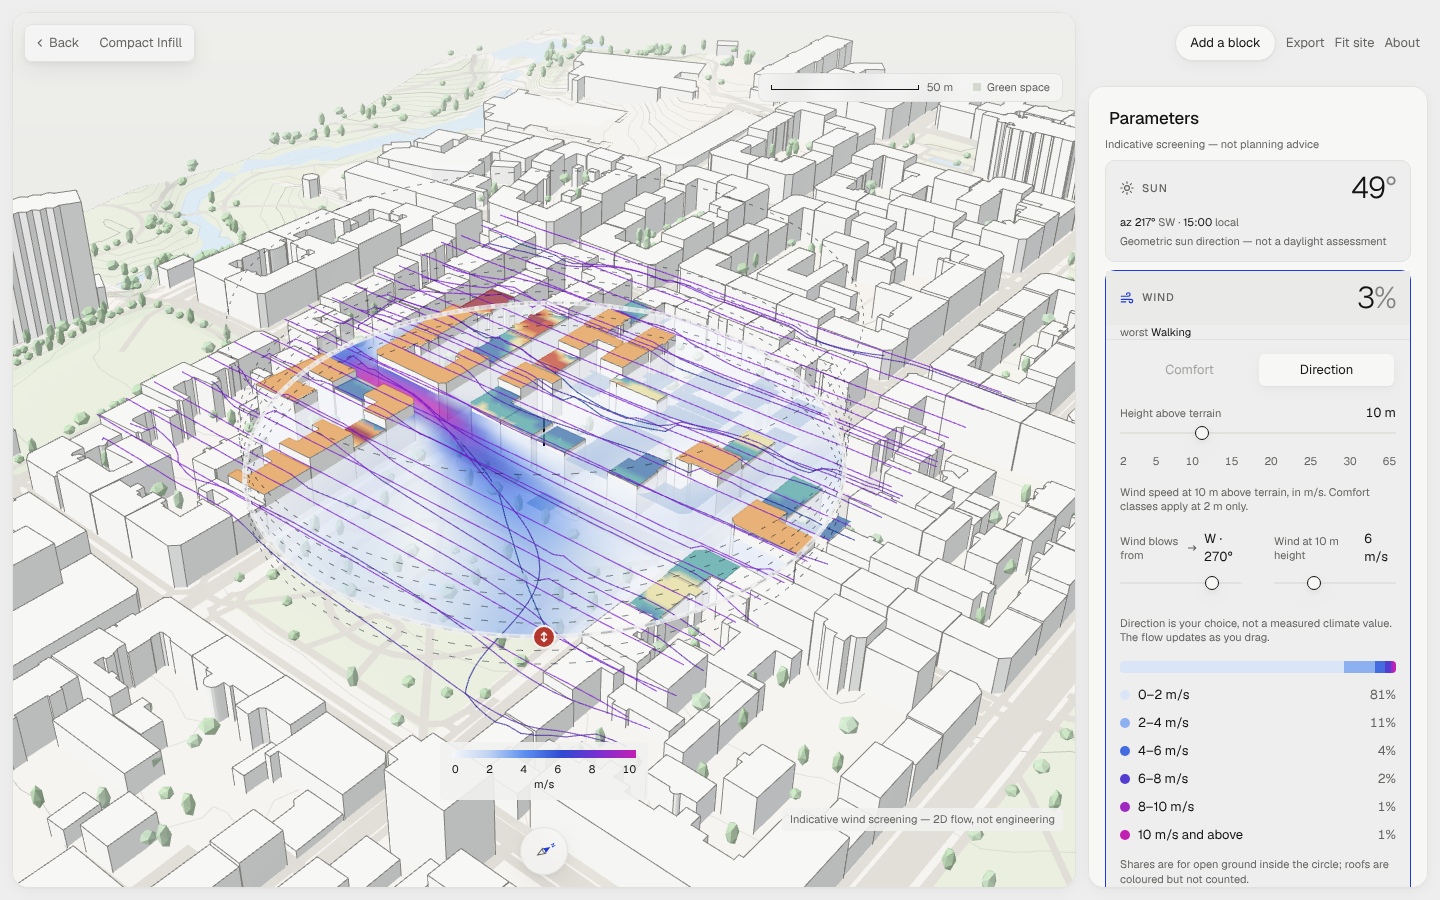
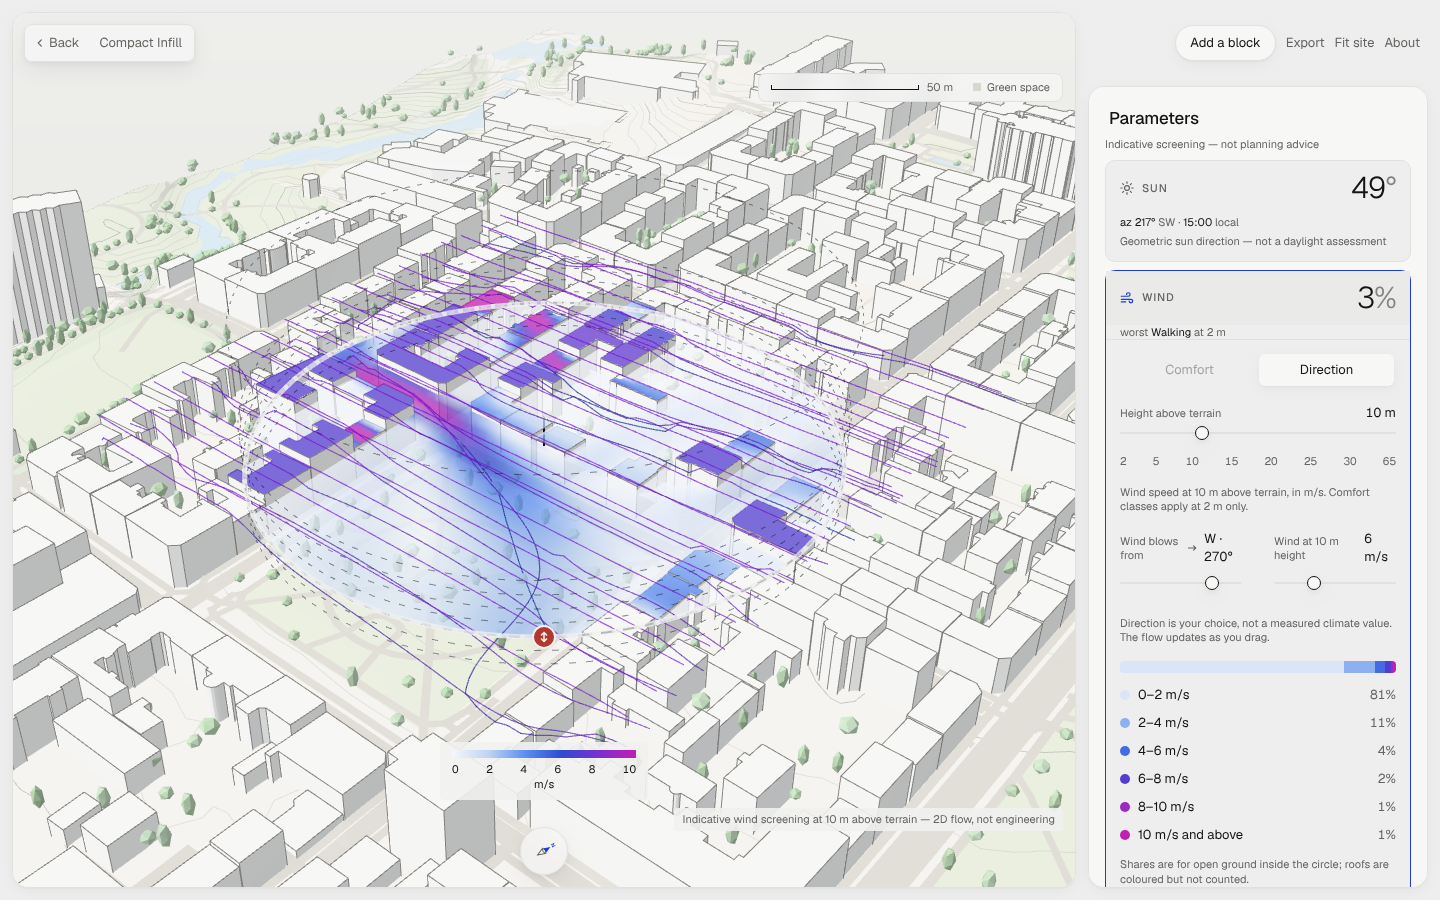
feat(wind): claims and labels at height (ADR-0028 phase 4)
The map caption names the height once the map is lifted; the claim
itself is unchanged. Roofs follow the scale the map shows, so a lifted
m/s map no longer has comfort-coloured roofs beside it. The steep-site
note says lifted heights are drawn along the ground but solved flat,
and the wind card's comfort figure says 'at 2 m' while lifted.

Claude-Session: https://claude.ai/code/session_01GYZFU7DhZDxarShToDiTiP

Changed region(s): [[0.1562, 0.3111, 0.5938, 0.6844], [0.4688, 0.9022, 0.625, 0.9333]]

diff --git a/src/scene/ViewportCanvas.tsx b/src/scene/ViewportCanvas.tsx
@@ -23,7 +23,6 @@ import { ClimateLayer } from './ClimateLayer'
 import { FacadeSun, type FacadeOverlay } from './FacadeSun'
 import { RoofSolar } from './RoofSolar'
 import { WindStreamlines } from './WindStreamlines'
-import { FLOW_DISCLAIMER } from '../features/analysis/lbm'
 import { WindParticles } from './WindParticles'
 import { AnalysisCircle } from './AnalysisCircle'
 import { GhostRings, WindLiftHandle } from './WindLiftHandle'
@@ -31,7 +30,7 @@ import { fadedBuildings, ghostHeights } from '../features/analysis/windLift'
 import { WorstArrows } from './WorstArrows'
 import type { FlowResult } from '../features/analysis/flowRunner'
 import type { RoofSolarValue } from '../features/analysis/roofSolar'
-import { DEFAULT_WIND, displayAt, flowAtHeight, windDrawLift, type WindSettings, type WindBaseline, type ClimateOverlay } from '../features/analysis/climateView'
+import { DEFAULT_WIND, displayAt, flowAtHeight, windCaption, windDrawLift, type WindSettings, type WindBaseline, type ClimateOverlay } from '../features/analysis/climateView'
 import { MassLayer, type MassAnnotation } from './MassLayer'
 import { Trees } from './Trees'
 import { visibleTierFootprints } from './massFootprints'
@@ -589,7 +588,7 @@ export function ViewportCanvas({
         // The wind claim stays visible with the wind layer even when the inspector group is closed (PRD R8).
         <div className="pointer-events-none absolute inset-x-3 bottom-14 z-20 flex flex-col items-end gap-2">
           {windShown.display === 'ratio' && <WindRampBar />}
-          <p className="rounded-chip bg-surface/90 px-2 py-1 text-caption text-ink-secondary">{FLOW_DISCLAIMER}</p>
+          <p className="rounded-chip bg-surface/90 px-2 py-1 text-caption text-ink-secondary">{windCaption(windSettings.heightM)}</p>
         </div>
       )}
       {webgl === 'none' ? (
@@ -648,7 +647,7 @@ export function ViewportCanvas({
             {roofSolar && <RoofSolar buildings={windBuildings} values={roofSolar} heightAt={heightAt} />}
             {facade && <FacadeSun overlay={facade} heightAt={heightAt} />}
             {windWorst && <WorstArrows cells={windWorst.cells} worstFrom={windWorst.worstFrom} heightAt={heightAt} />}
-            {!windWorst && windFlow?.slices && windCircle && <RoofWind buildings={windBuildings} flow={windFlow} circle={windCircle} heightAt={heightAt} wind={windSettings} baseline={windBaseline} />}
+            {!windWorst && windFlow?.slices && windCircle && <RoofWind buildings={windBuildings} flow={windFlow} circle={windCircle} heightAt={heightAt} wind={windShown} baseline={windBaseline} />}
             {!windWorst && windFlow && windCircle && ((windStreamlines || reducedMotion)
               ? windFlow.settled && <WindStreamlines flow={windFlow} circle={windCircle} heightAt={heightAt} heightM={windSettings.streamlines3d ? null : windSettings.heightM} opacity={windSettings.streamlineOpacity} buildings={windBuildings} />
               : windField && <WindParticles flow={windField} circle={windCircle} heightAt={windHeightAt} wind={windShown} />)}

diff --git a/src/components/studio/ClimatePanel.tsx b/src/components/studio/ClimatePanel.tsx
@@ -4,7 +4,7 @@ import { useCallback, useEffect, useRef, useState, type ReactNode } from 'react'
 import { demoFrame } from '../../features/analysis/windDemo'
 import { SLICE_HEIGHTS_M } from '../../features/analysis/windProfile'
 import { heightText, nearestHeight } from '../../features/analysis/windLift'
-import { CIRCLE_RADIUS, DELTA_NOTE, displayAt, heightNote, localSpeedMs, PEDESTRIAN_HEIGHT_M, ROSE_THRESHOLD_MS, WORST_NOTE, type WindBaseline, type ClimateMode, type ClimateView, type WindDisplay, type WindSettings } from '../../features/analysis/climateView'
+import { CIRCLE_RADIUS, DELTA_NOTE, displayAt, heightNote, LIFT_SLOPE_NOTE, localSpeedMs, PEDESTRIAN_HEIGHT_M, ROSE_THRESHOLD_MS, WORST_NOTE, type WindBaseline, type ClimateMode, type ClimateView, type WindDisplay, type WindSettings } from '../../features/analysis/climateView'
 import { cn } from '../../lib/cn'
 import { eyebrowClass, labelClass, pillButtonClass, rangeClass, segmentClass, segmentGroupClass } from '../ui/controls'
 
@@ -227,7 +227,7 @@ export function ClimatePanel({ terrainReliefM = 0, showQuick = true, showModes =
       <p className="mt-2 text-caption text-ink-secondary">{view.disclaimer}</p>
       {mode === 'wind' && terrainReliefM >= STEEP_RELIEF_M && (
         <p className="mt-2 text-caption text-ink-secondary">
-          Steep site: the ground rises about {Math.round(terrainReliefM)} m across this circle. The wind model follows the ground and does not model the slope itself, so hills neither shelter nor speed up the flow here. Treat these results as rougher than on a flat site.
+          Steep site: the ground rises about {Math.round(terrainReliefM)} m across this circle. The wind model follows the ground and does not model the slope itself, so hills neither shelter nor speed up the flow here. Treat these results as rougher than on a flat site.{wind.heightM > PEDESTRIAN_HEIGHT_M ? ` ${LIFT_SLOPE_NOTE}` : ''}
         </p>
       )}
     </div>

diff --git a/src/features/analysis/climateView.test.ts b/src/features/analysis/climateView.test.ts
@@ -1,5 +1,6 @@
 import { describe, expect, it } from 'vitest'
-import { ACTIVITY_BANDS, buildClimateView, captureBaseline, DEFAULT_WIND, DELTA_BANDS, displayAt, flowAtHeight, windDrawLift, WORST_NOTE, DIRECTION_BANDS, localSpeedMs, particleColour, WIND_RAMP, windSpeedColour, windColour } from './climateView'
+import { FLOW_DISCLAIMER } from './lbm'
+import { ACTIVITY_BANDS, buildClimateView, captureBaseline, windCaption, DEFAULT_WIND, DELTA_BANDS, displayAt, flowAtHeight, windDrawLift, WORST_NOTE, DIRECTION_BANDS, localSpeedMs, particleColour, WIND_RAMP, windSpeedColour, windColour } from './climateView'
 import { SUN_HOURS_DISCLAIMER } from './sunHours'
 
 describe('Direction speed ramp', () => {
@@ -128,6 +129,13 @@ describe('the wind map at a chosen height', () => {
     // A baseline without that slice cannot be compared at that height.
     const flat = captureBaseline({ ...flow(1.0), slices: [flow().slices[0]!] }, { centre: [0, 0], radius: 100 }, 270, true)
     expect(view({ display: 'delta', heightM: 20 }, flow(1.2), flat).assessed).toBe(0)
+  })
+
+  it('names the height in the map caption once the map is lifted (phase 4)', () => {
+    expect(windCaption(2)).toBe(FLOW_DISCLAIMER)
+    expect(windCaption(20)).toBe('Indicative wind screening at 20 m above terrain — 2D flow, not engineering')
+    // The claim itself never changes: still indicative, still 2D, still not engineering.
+    expect(windCaption(65)).toContain('2D flow, not engineering')
   })
 
   it('draws the map on the ground at 2 m and at terrain + height above', () => {

diff --git a/src/components/studio/analysisValues.ts b/src/components/studio/analysisValues.ts
@@ -101,14 +101,15 @@ export function noiseStat(cells: readonly NoiseCell[], roads: readonly NoiseRoad
  * Share of open ground at or above the stand threshold (4 m/s), from a Comfort (activity) view,
  * and the windiest class present. `view` must be built with display 'activity'.
  */
-export function windStat(view: ClimateView | null, from: number, refSpeed: number, solving: boolean): AnalysisStat {
+export function windStat(view: ClimateView | null, from: number, refSpeed: number, solving: boolean, lifted = false): AnalysisStat {
   if (!view) return empty(solving ? 'Solving the flow…' : 'Select to solve the flow')
   if (view.assessed === 0) return empty('Solving the flow…')
   const above = view.legend.reduce((sum, entry, index) => sum + ((ACTIVITY_BANDS[index]?.below ?? 0) > ROSE_THRESHOLD_MS ? entry.share : 0), 0)
   const worst = [...view.legend].reverse().find((entry) => entry.count > 0)
   // Direction and speed are the card's own controls; the card names the windiest class.
   const secondary: Part[] = worst
-    ? [['', 'worst '], [worst.label.split(' (')[0] ?? worst.label, '']]
+    // A comfort class is a 2 m statement; while the map shows another height the card says so.
+    ? [['', 'worst '], [worst.label.split(' (')[0] ?? worst.label, lifted ? ' at 2 m' : '']]
     : [['', `${compassPoint(from)} ${from}° at ${refSpeed} m/s`]]
   return { value: formatNumber(above * 100), unit: '%', secondary }
 }

diff --git a/src/components/studio/ClimatePanel.test.tsx b/src/components/studio/ClimatePanel.test.tsx
@@ -278,6 +278,16 @@ it('above 2 m the map shows m/s: Comfort is disabled and says why (ADR-0028)', (
   expect(screen.queryByText(/above terrain, in m\/s/)).toBeNull()
 })
 
+it('on a steep site the lifted map says it follows the ground but is solved flat (phase 4)', () => {
+  // The note sits with the legend, so the panel needs a (here empty) wind view.
+  const view = { overlay: { cellM: 4, cells: [] }, legend: [], disclaimer: 'Indicative wind screening — 2D flow, not engineering', assessed: 0 }
+  const props = { mode: 'wind' as const, onModeChange: vi.fn(), onWindChange: vi.fn(), view, terrainReliefM: 24 }
+  const { rerender } = render(<ClimatePanel {...props} wind={{ ...DEFAULT_WIND, heightM: 2 }} />)
+  expect(screen.getByText(/Steep site/)).not.toHaveTextContent('solved as a flat slice')
+  rerender(<ClimatePanel {...props} wind={{ ...DEFAULT_WIND, heightM: 20 }} />)
+  expect(screen.getByText(/Steep site/)).toHaveTextContent('each height is still solved as a flat slice')
+})
+
 it('the worst case is a 2 m screen: choosing it returns to 2 m and locks the height', () => {
   const onWindChange = vi.fn()
   const sweep = { sectors: [{ from: 0, meanRatio: 0.6, shareAbove: 0.1 }], worstFrom: 0, total: 8 }

diff --git a/src/features/analysis/climateView.ts b/src/features/analysis/climateView.ts
@@ -67,6 +67,17 @@ export function windDrawLift(heightM: number): number {
   return heightM > PEDESTRIAN_HEIGHT_M ? heightM : 0
 }
 
+/**
+ * The wind claim on the map (ADR-0028 phase 4): the same claim, naming the height when the map is
+ * lifted, so a 20 m map is never read as the pedestrian one.
+ */
+export function windCaption(heightM: number): string {
+  return heightM > PEDESTRIAN_HEIGHT_M ? `Indicative wind screening at ${heightM} m above terrain — 2D flow, not engineering` : FLOW_DISCLAIMER
+}
+
+/** Lifted slices are drawn along the ground, but each one is solved as a flat plane. */
+export const LIFT_SLOPE_NOTE = 'Above 2 m the map is drawn following the ground; each height is still solved as a flat slice, so slopes and ridges do not speed up the wind here.'
+
 /** The caption for a map above pedestrian height. */
 export const heightNote = (heightM: number) => `Wind speed at ${heightM} m above terrain, in m/s. Comfort classes apply at 2 m only.`
 export type WindBaseline = { readonly flow: FlowResult; readonly circle: { readonly centre: Vec2; readonly radius: number }; readonly from: number; readonly downwash: boolean }

diff --git a/e2e/wind.spec.ts b/e2e/wind.spec.ts
@@ -111,6 +111,8 @@ test('ADR-0028: the wind map lifts to 20 m above terrain, shows m/s there, and r
   await expect(page.getByRole('list', { name: 'Wind direction legend' })).toBeVisible()
   await expect(page.getByText('Wind speed at 20 m above terrain, in m/s. Comfort classes apply at 2 m only.')).toBeVisible()
   await expect(displays.getByRole('button', { name: 'Comfort', exact: true })).toBeDisabled()
+  // The claim on the map names the height, so a lifted map is never read as the pedestrian one.
+  await expect(page.getByRole('region', { name: /3D site viewport/ }).getByText('Indicative wind screening at 20 m above terrain — 2D flow, not engineering')).toBeVisible()
 
   // The lift handle in the scene holds the same height, and steps it from the keyboard.
   const handle = page.getByRole('slider', { name: 'Lift the wind map' })

diff --git a/src/components/studio/analysisValues.test.ts b/src/components/studio/analysisValues.test.ts
@@ -43,6 +43,8 @@ describe('analysis card values come from the analysis, not constants', () => {
     // Stroll (4–6), walk (6–8) and above are at or above the 4 m/s stand threshold: 0.2 + 0.1.
     expect(stat).toMatchObject({ value: '30', unit: '%' })
     expect(text(stat.secondary)).toBe('worst Band 3')
+    // The comfort figure is always at 2 m; while the map shows another height the card says so.
+    expect(text(windStat({ ...pending, legend, assessed: 10 }, 270, 6, true, true).secondary)).toBe('worst Band 3 at 2 m')
   })
 
   it('Sun analysis cards use the medians of the same samples the layers draw', () => {

diff --git a/src/components/studio/StudioShell.tsx b/src/components/studio/StudioShell.tsx
@@ -441,7 +441,7 @@ export function StudioShell({
       id: 'wind',
       label: 'Wind',
       icon: 'wind',
-      stat: windStat(windComfortView, wind.from, wind.refSpeed, climateMode === 'wind'),
+      stat: windStat(windComfortView, wind.from, wind.refSpeed, climateMode === 'wind', wind.heightM > PEDESTRIAN_HEIGHT_M),
       note: `${FLOW_DISCLAIMER} · figure = share of open ground ≥ ${ROSE_THRESHOLD_MS} m/s`,
       body: climatePanel('wind') ?? <p className="text-body-sm text-ink-secondary">The site package is loading.</p>,
     },

diff --git a/docs/agent-log.md b/docs/agent-log.md
@@ -138,3 +138,4 @@ Record every meaningful agent engagement. The point is to preserve **why** an ou
 | 2026-11-13 | Wind lift Phase 1 (ADR-0028) | Claude (engineering-senior-developer) | Seven terrain-following slice heights and the 30 m top-slice threshold; measure the cost | `src/features/analysis/windProfile.ts`, `src/components/studio/ClimatePanel.tsx` (fallback list from `SLICE_HEIGHTS_M`), tests (`windProfile`, `flowRunner`, `wind-validation`, `ClimatePanel`), `docs/plans/wind-lift-plan.md`, ADR-0028 → Accepted, `findings.md` | Accepted (pending owner review) | `SLICE_HEIGHTS_M` = 2, 5, 10, 15, 20, 25, 30 m; the top slice is added above 30 m (was 35 m). Tests that picked slices by position now look them up by height. Benchmark: full stack 1.17× on Compact Infill, 1.11× on Sloped Edge, inside the 2× budget. No renderer change; the heatmap still shows 2 m until Phase 2. Not measured: a dense import site. |
 | 2026-11-13 | Wind lift Phase 2 (ADR-0028) | Claude (engineering-senior-developer + gis-3d-scene-developer) | The wind map, particles and flat streamlines at a chosen height above terrain; m/s above 2 m | `src/features/analysis/climateView.ts` (`heightM`, `streamlines3d`, `flowAtHeight`, `displayAt`, `windDrawLift`), `src/scene/ViewportCanvas.tsx`, `src/components/studio/{ClimatePanel,StudioShell}.tsx`, `src/features/analysis/flowRunner.ts` (comment), tests, `e2e/wind.spec.ts` (new lift test), `e2e/wind-{perf,evidence}.spec.ts`, 2 screenshots | Accepted (pending owner review) | One height drives the map, particles and flat streamlines. 2 m stays the solved ground field with the downwash rule; upper heights use their slice, unboosted, and show nothing while computing. Comfort classes only at 2 m. The legend's accessible name followed the stored display, not the shown one: fixed and covered by the e2e. The height note was printed twice (panel note and legend disclaimer): kept once, beside the control. No new dependency. |
 | 2026-11-13 | Wind lift Phase 3 (ADR-0028) | Claude (gis-3d-scene-developer + engineering-frontend-developer) | Lift handle, stepped height slider, dashed rings at the other heights, fading buildings below the disc | `src/features/analysis/windLift.ts` (new) + tests, `src/scene/WindLiftHandle.tsx` (new: handle, rings), `src/scene/ViewportCanvas.tsx` (split faded mesh, drag state), `src/components/studio/{ClimatePanel,StudioShell}.tsx`, `e2e/wind.spec.ts`, 7 screenshots | Accepted (pending owner review) | Handle and slider share `heightM`. The drag follows a vertical plane through the handle; the map snaps to the nearest solved slice. Esc restores the start height and is stopped from reaching the studio's own Esc handlers. Faded buildings are a second translucent mesh, because the context buildings are one merged mesh. E2e (slider → handle keyboard → drag + Esc → Home) passed first time locally. Masses are not faded. |
+| 2026-11-13 | Wind lift Phase 4 (ADR-0028) | Claude (engineering-technical-writer + engineering-senior-developer) | Claims and labels at height | `src/features/analysis/climateView.ts` (`windCaption`, `LIFT_SLOPE_NOTE`), `src/scene/ViewportCanvas.tsx` (caption, roofs on the shown scale), `src/components/studio/{ClimatePanel,analysisValues,StudioShell}.ts(x)`, tests, `e2e/wind.spec.ts`, 5 re-captured screenshots | Accepted (pending owner review) | The map caption names the height; the claim itself is unchanged. The Phase 3 screenshots showed roofs in comfort colours beside an m/s map: roofs now follow the displayed scale. The card's comfort figure says "at 2 m" while lifted. D34 forbidden-claims e2e passes. |

diff --git a/docs/plans/wind-lift-plan.md b/docs/plans/wind-lift-plan.md
@@ -1,6 +1,6 @@
 # Plan — Lift the wind analysis through its height slices
 
-**Status:** accepted; Phases 1–3 done (2026-11-13), Phases 4–5 open · **Date:** 2026-11-13 · **Decision record:** ADR-0028 (accepted) · **Builds on:** ADR-0014, ADR-0015, ADR-0026, `docs/plans/wind-3d-plan.md` §3A
+**Status:** accepted; Phases 1–4 done (2026-11-13), Phase 5 open · **Date:** 2026-11-13 · **Decision record:** ADR-0028 (accepted) · **Builds on:** ADR-0014, ADR-0015, ADR-0026, `docs/plans/wind-3d-plan.md` §3A
 
 ## 1. What the owner asked for
 
@@ -84,6 +84,15 @@ Not done:
 - The caption names the height: "Wind at 20 m above terrain — 2D flow, not engineering".
 - The note that the model ignores slope stays visible whenever terrain relief inside the circle is non-trivial (existing `terrainReliefM`). Following the terrain is a drawing choice; the solver still treats each slice as flat.
 - No comfort or "safe/unsafe" wording above 2 m.
+
+**Done (2026-11-13).**
+- **The map caption** is `windCaption(h)`: "Indicative wind screening at 20 m above terrain — 2D flow, not engineering". At 2 m it is the unchanged claim.
+- **The steep-site note** adds `LIFT_SLOPE_NOTE` while the map is lifted: the map is drawn following the ground, but each height is solved flat.
+- **No comfort wording above 2 m.**
+  - The map shows m/s and Comfort is disabled (Phase 2).
+  - Roof colours now follow the shown scale. They were still in comfort colours beside an m/s map, which was visible in the Phase 3 screenshots.
+  - The wind card's figure says "at 2 m" while the map shows another height.
+- **Tests:** the D34 disclaimer e2e and the lift e2e, which now checks the caption, both pass.
 
 ### Phase 5 — Evidence and gates
 

diff --git a/progress.md b/progress.md
@@ -896,3 +896,10 @@ zoom in because the quads are small at the default site camera.
   a pointer drag with Esc to cancel, and Home.
 - Screenshots at 2, 10 and 30 m on both curated sites, plus Compact Infill's 65 m top slice, checked by eye: the
   handle sits on the near edge, the rings stack, low buildings fade, and Sloped Edge's disc follows the hill.
+
+## 2026-11-13 — Wind lift, Phase 4 (ADR-0028)
+
+- Caption, slope note, card label, roofs on the shown scale; 3 new unit tests; lift e2e checks the caption.
+  First run: 1 panel test failed (the steep note renders with the legend, so the test needed a view); fixed in the test.
+- Local e2e: wind, wind-a11y and m3-disclaimers 7/7. The re-captured lifted screenshots changed; the 2 m ones are
+  byte-identical, confirming there is no effect at pedestrian height.
